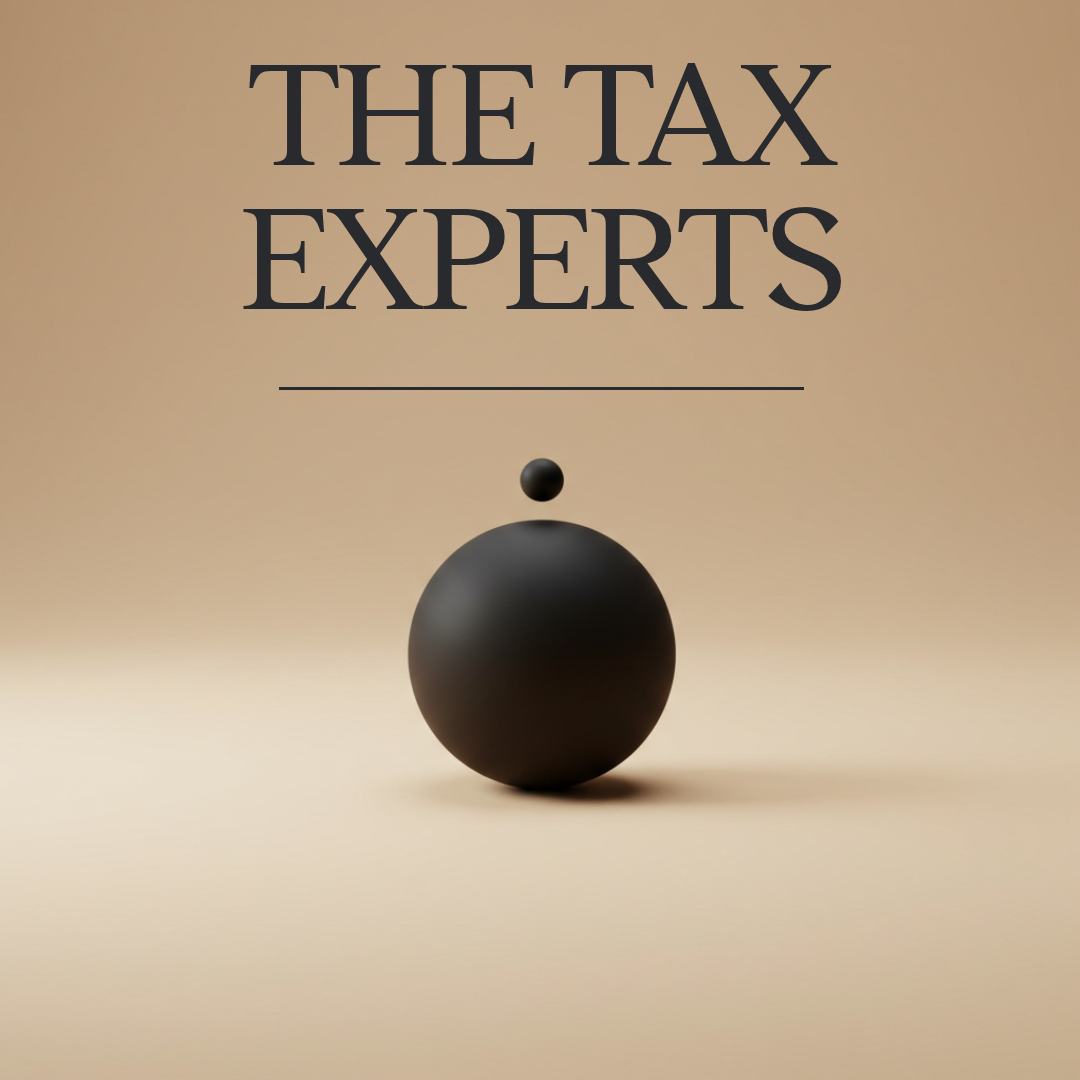
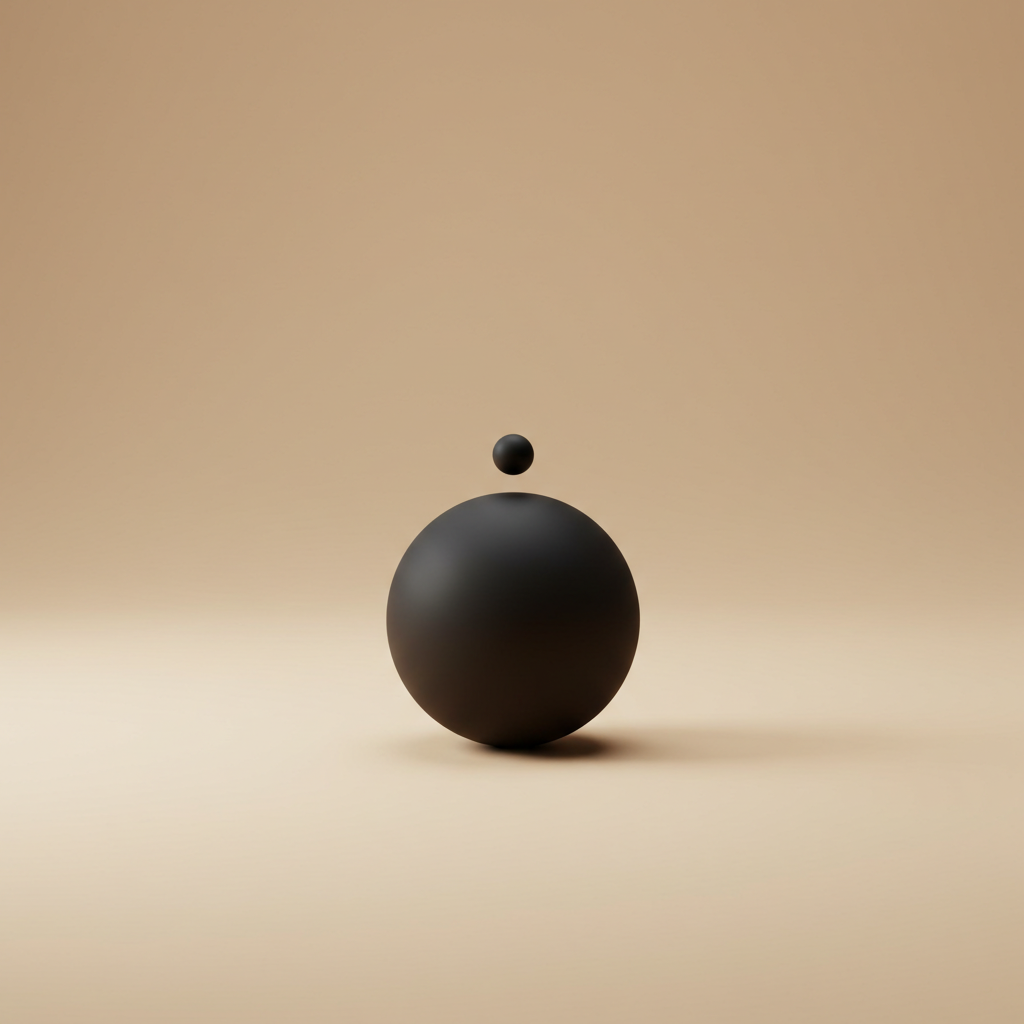
added data

Changed region(s): [[0.2188, 0.1875, 0.7812, 0.3125], [0.2188, 0.0625, 0.7812, 0.1562]]

diff --git a/index.html b/index.html
@@ -179,7 +179,7 @@
 <div class="homepageHeader_right__3eS__">
 <div>
 <div>
-<img alt="Video fallback image" loading="eager" width="640" height="440" decoding="async" src="./images/hero-fallback.png" style="color: transparent; width: auto; height: auto; max-width: 100%;">
+<img alt="The Tax Experts - Professional Tax and Accounting Services" loading="eager" width="640" height="640" decoding="async" src="./tax_experts.png" style="color: transparent; width: auto; height: auto; max-width: 100%; border-radius: 20px; box-shadow: 0 20px 60px rgba(0, 0, 0, 0.15), 0 10px 30px rgba(0, 0, 0, 0.1); filter: brightness(1.05) contrast(1.05);">
 </div>
 </div>
 </div>
@@ -238,7 +238,7 @@
 </div>
 <div class="cardsGridLayout_right__RrRuy">
 <div class="cardsGridLayout_card__CwF7g cardsGridLayout_media____KTH">
-<img alt="Some alt text" loading="lazy" width="612" height="899" decoding="async" src="./images/liquidity-image.png" style="color: transparent; width: auto; height: auto; max-width: 100%;">
+<img alt="Professional tax advisor providing expert guidance" loading="lazy" width="612" height="899" decoding="async" src="./equity.png" style="color: transparent; width: auto; height: auto; max-width: 100%; object-fit: cover; border-radius: 2rem;">
 </div>
 </div>
 </div>
